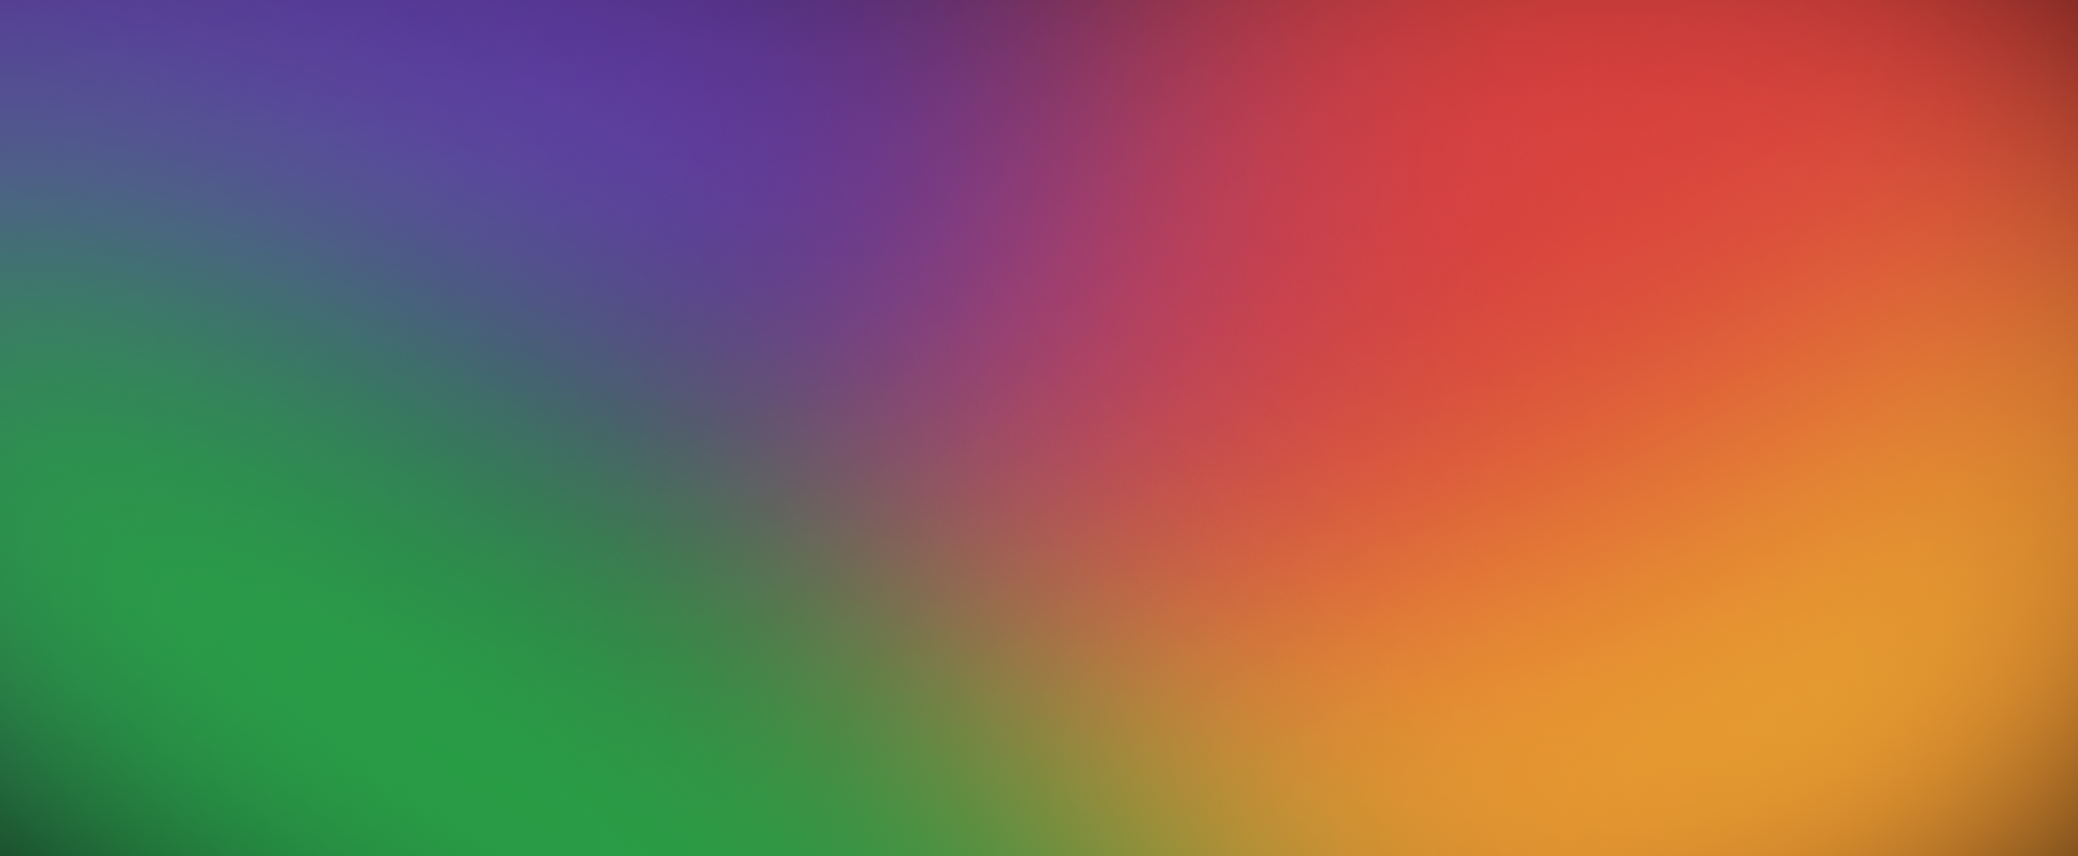
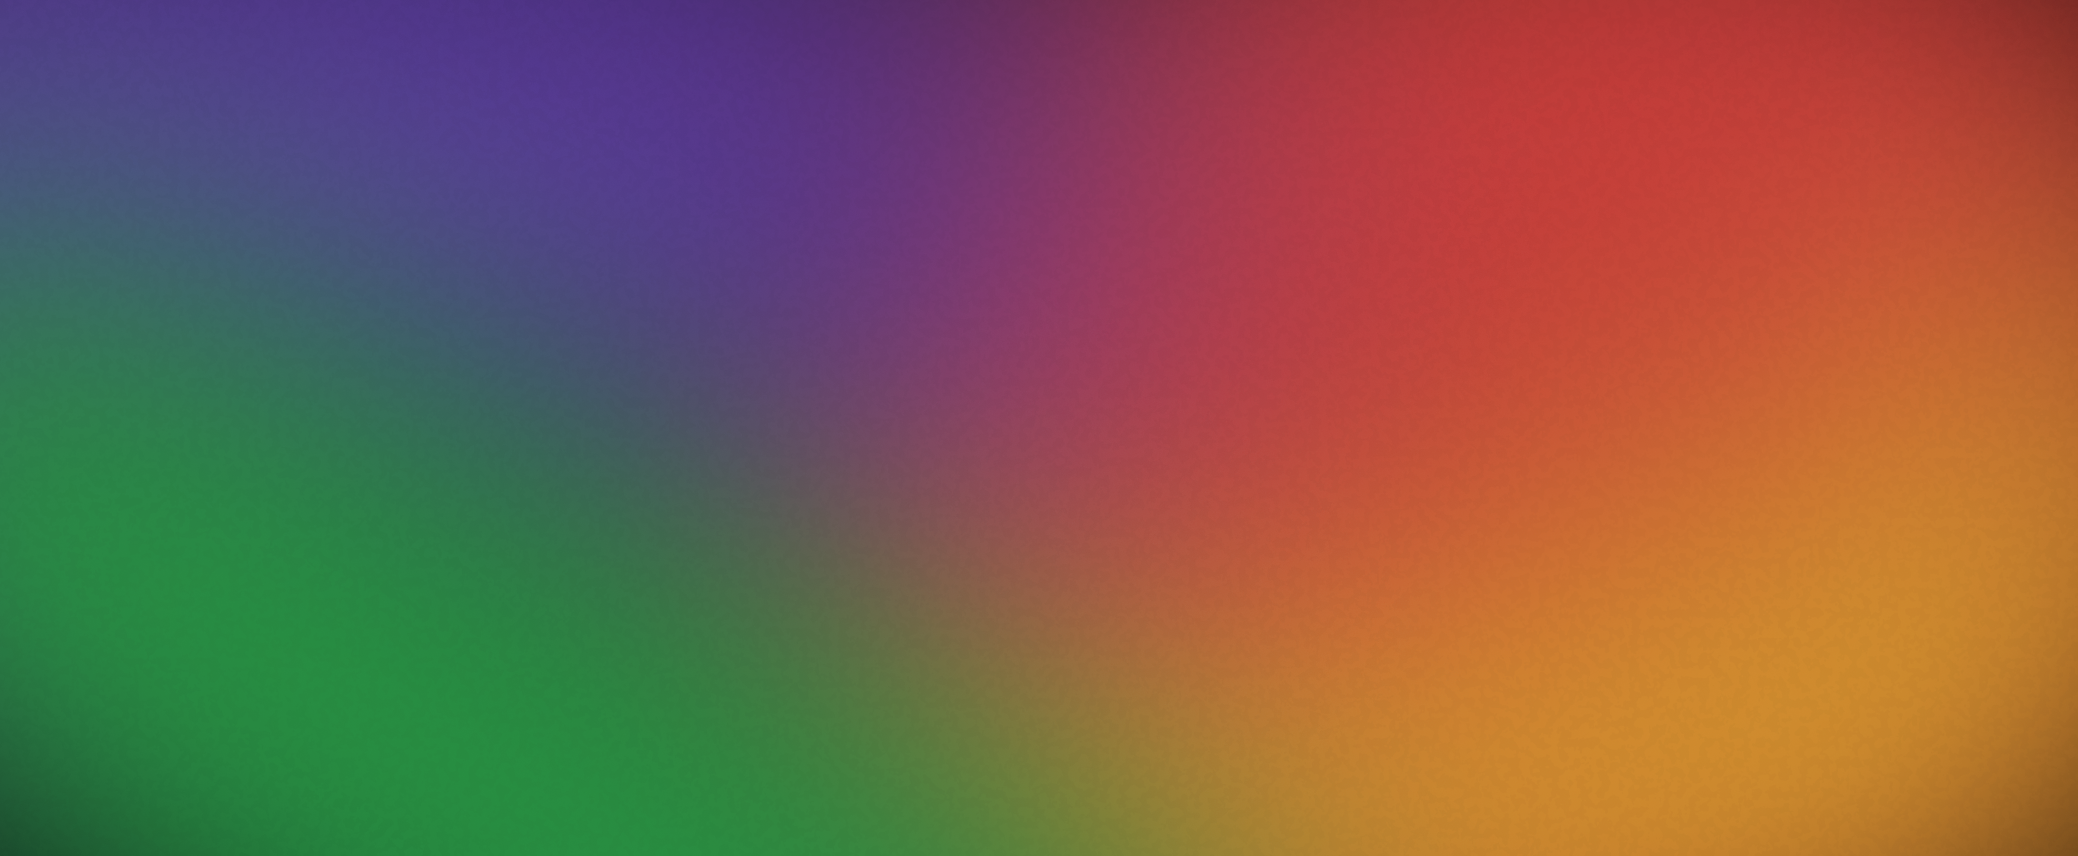
Add staged text reveal animations + parallax on quiz background gradient

Changed region(s): [[0.6468, 0.243, 0.9856, 1.0]]

diff --git a/style.css b/style.css
@@ -1151,10 +1151,12 @@ section{padding:120px 0}
 }
 /* Background image — replaces the video */
 .quiz-bg-gradient{
-  position:absolute;inset:0;
+  position:absolute;
+  top:-12%;left:0;right:0;bottom:-12%;
   background:url('assets/%D0%B3%D1%80%D0%B0%D0%B4%D0%B8%D0%B5%D0%BD%D1%82.png') center/cover no-repeat, #0a0a0a;
   z-index:0;
   pointer-events:none;
+  will-change:transform;
 }
 .quiz > .container{position:relative;z-index:2}
 
@@ -1904,4 +1906,64 @@ section{padding:120px 0}
 }
 .person-card:hover .person-photo img{
   transform:scale(1.12);
+}
+
+/* ===== Text appear animations ===== */
+
+/* Hero text — staged fade-in on load */
+.hero-eyebrow,
+.hero-title,
+.hero-sub,
+.hero-cta,
+.hero-stats{
+  opacity:0;
+  transform:translateY(28px);
+  animation:hero-fade-in .9s cubic-bezier(.16,.84,.44,1) forwards;
+}
+.hero-eyebrow{animation-delay:.10s}
+.hero-title  {animation-delay:.22s}
+.hero-sub    {animation-delay:.42s}
+.hero-cta    {animation-delay:.58s}
+.hero-stats  {animation-delay:.72s}
+@keyframes hero-fade-in{
+  to{opacity:1;transform:none}
+}
+
+/* Section header — staggered reveal: pill → title → lead */
+.sec-head .sec-pill,
+.sec-head .sec-title,
+.sec-head .sec-lead{
+  opacity:0;
+  transform:translateY(22px);
+  transition:opacity .8s cubic-bezier(.16,.84,.44,1),
+             transform .8s cubic-bezier(.16,.84,.44,1);
+}
+.sec-head.visible .sec-pill {opacity:1;transform:none;transition-delay:0s}
+.sec-head.visible .sec-title{opacity:1;transform:none;transition-delay:.15s}
+.sec-head.visible .sec-lead {opacity:1;transform:none;transition-delay:.30s}
+
+/* Block pills (.sec-pill.block) and specs/why titles — also stagger */
+.specs-title,
+.why-title{
+  opacity:0;
+  transform:translateY(20px);
+  transition:opacity .8s cubic-bezier(.16,.84,.44,1),
+             transform .8s cubic-bezier(.16,.84,.44,1);
+}
+.sec-pill.block{
+  opacity:0;
+  transform:translateY(18px);
+  transition:opacity .7s cubic-bezier(.16,.84,.44,1),
+             transform .7s cubic-bezier(.16,.84,.44,1);
+}
+.sec-pill.block.visible{opacity:1;transform:none}
+.specs-title.visible,
+.why-title.visible{opacity:1;transform:none;transition-delay:.12s}
+
+@media (prefers-reduced-motion: reduce){
+  .hero-eyebrow,.hero-title,.hero-sub,.hero-cta,.hero-stats,
+  .sec-head .sec-pill,.sec-head .sec-title,.sec-head .sec-lead,
+  .specs-title,.why-title,.sec-pill.block{
+    opacity:1 !important;transform:none !important;animation:none !important;
+  }
 }

diff --git a/script.js b/script.js
@@ -41,7 +41,7 @@ const io=new IntersectionObserver(entries=>{
   });
 },{threshold:.12,rootMargin:'0px 0px -60px 0px'});
 
-document.querySelectorAll('.sec-head, .about-grid, .about-image, .pillar, .acc-item, .why-card, .person-card, .fc-card').forEach(el=>{
+document.querySelectorAll('.sec-head, .about-grid, .about-image, .pillar, .acc-item, .why-card, .person-card, .fc-card, .specs-title, .why-title, .sec-pill.block').forEach(el=>{
   el.classList.add('reveal');
   io.observe(el);
 });
@@ -630,6 +630,11 @@ window.addEventListener('scroll',()=>{
   const pin = document.querySelector('.footer-map-pin');
   if(pin){
     items.push({ el: pin, container: pin.closest('.footer-map'), speed: 45 });
+  }
+  // Quiz background gradient — gentle drift
+  const quizBg = document.querySelector('.quiz-bg-gradient');
+  if(quizBg){
+    items.push({ el: quizBg, container: quizBg.closest('.quiz'), speed: 90, isVideo: true });
   }
 
   if(!items.length) return;